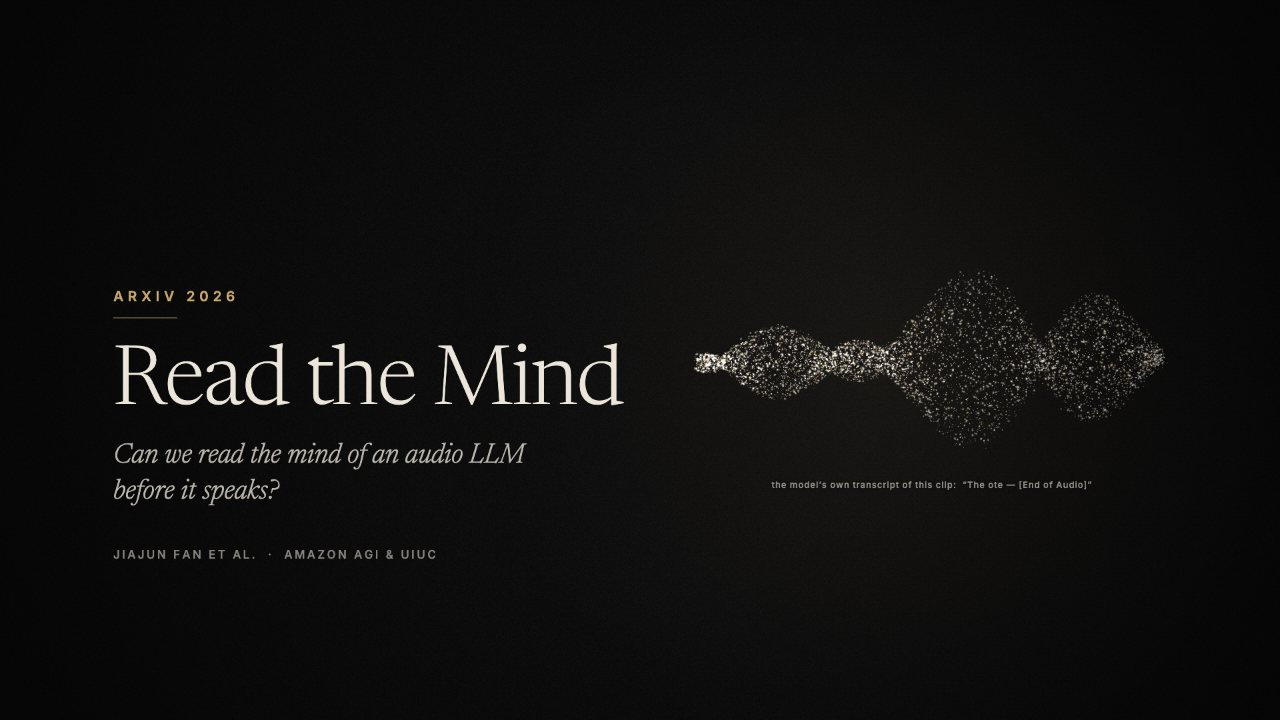
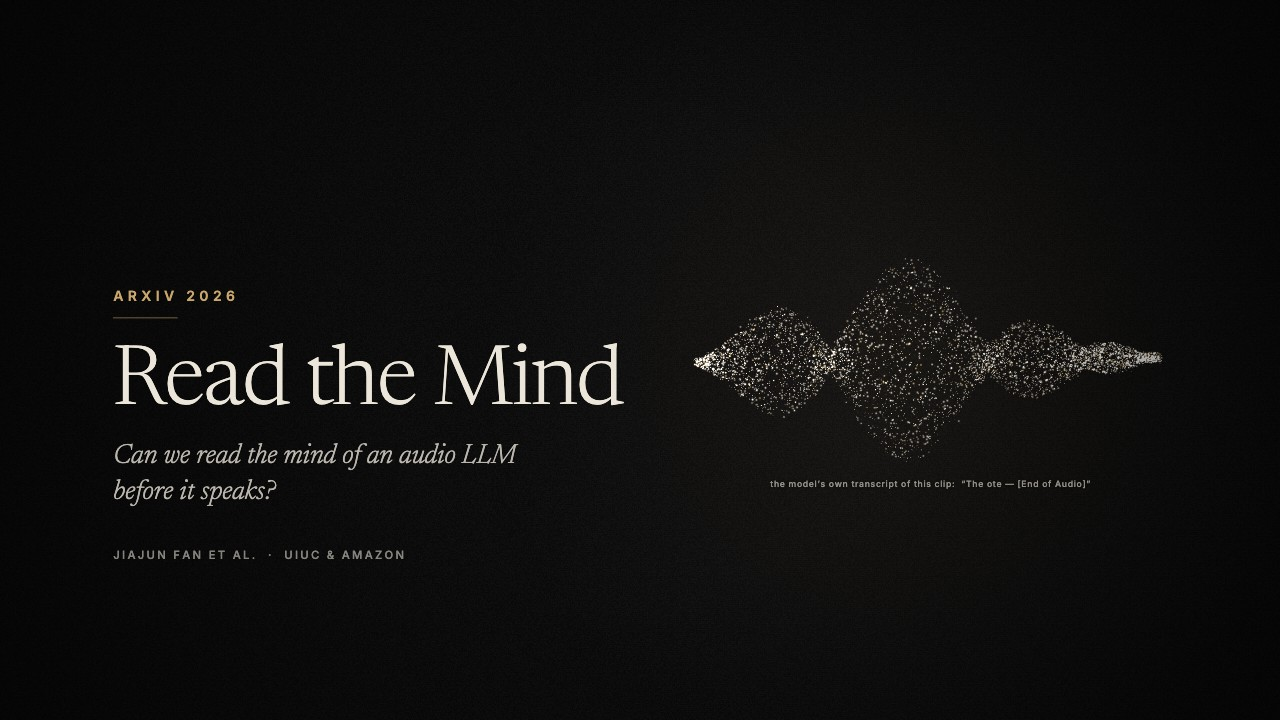
Films: credits match the pages; poster play button no longer covers the title
ORW-CFM-W2 now credits UIUC, CMU & USC, AC-Flow UIUC & CMU, and Read the Mind
UIUC & Amazon (UIUC first); their posters are re-rendered from the film at the
title frame. On every project page the poster's play button sits bottom-right.

diff --git a/film/scripts/orw-cfm-w2.js b/film/scripts/orw-cfm-w2.js
@@ -5,7 +5,7 @@ export default {
   id: 'orw-cfm-w2', name: 'ORW-CFM-W2', kicker: 'ORW-CFM-W2  ·  A PROJECT FILM', badge: ['ICLR 2025', 'flow matching'], page: '/projects/orw-cfm-w2/',
   chapters: timeline([
     { len: 7, shape: 'v:flow', viz: { from: 'noise', to: 'samples' }, label: 'ICLR 2025', title: 'ORW-CFM-W2',
-      lines: ['Online reward-weighted fine-tuning of flow', 'matching, with Wasserstein regularization.'], meta: 'FAN, SHEN, CHENG, CHEN, LIANG, LIU  ·  UIUC, ZJU, TSINGHUA & USC' },
+      lines: ['Online reward-weighted fine-tuning of flow', 'matching, with Wasserstein regularization.'], meta: 'FAN, SHEN, CHENG, CHEN, LIANG, LIU  ·  UIUC, CMU & USC' },
     { shape: 'v:alpha', viz: { panels: [{ label: 'reward-weighting alone', note: 'collapses onto one mode', mode: 'collapse' }] },
       tick: 'THE PROBLEM', label: 'THE PROBLEM', title: 'Hard to fine-tune',
       lines: ['No likelihood to regularize with, collapse under', 'reward pressure, and a need for human data.'] },

diff --git a/film/scripts/ac-flow.js b/film/scripts/ac-flow.js
@@ -3,7 +3,7 @@ export default {
   id: 'ac-flow', name: 'AC-Flow', kicker: 'AC-FLOW  ·  A PROJECT FILM', badge: ['ARXIV 2025', 'arXiv 2510.18072'], page: '/projects/ac-flow/',
   chapters: timeline([
     { len: 7, shape: 'v:denoise', viz: { mode: 'dense', note: '' }, label: 'ARXIV 2025', title: 'AC-Flow',
-      lines: ['Fine-tuning flow matching models', 'with intermediate feedback.'], meta: 'FAN, CHENG, SHEN, ZHOU, LIU  ·  UIUC, CMU & UCAS' },
+      lines: ['Fine-tuning flow matching models', 'with intermediate feedback.'], meta: 'FAN, CHENG, SHEN, ZHOU, LIU  ·  UIUC & CMU' },
     { shape: 'v:denoise', viz: { mode: 'outcome' }, tick: 'THE PROBLEM', label: 'THE PROBLEM', title: 'One reward, many steps',
       lines: ['Outcome rewards arrive only at the end of the', 'denoising chain: a credit-assignment problem.'] },
     { shape: 'v:denoise', viz: { mode: 'dense' }, tick: 'ACTOR-CRITIC', label: 'THE METHOD', title: 'An actor and a critic',

diff --git a/_includes/site-chrome.html b/_includes/site-chrome.html
@@ -7,6 +7,10 @@
 .masthead-nav a{font-size:17px!important;font-weight:600!important;padding:6px 10px!important;margin:0!important;letter-spacing:0!important}
 @media(max-width:600px){.masthead-title{font-size:17px!important}.masthead-nav a{font-size:14px!important;padding:5px 8px!important}}
 {% unless include.home %}
+/* Film posters: the play button sits bottom-right so it never covers the title printed on the poster. */
+a[href^="/film/"] .play{left:auto!important;top:auto!important;right:28px!important;bottom:24px!important;margin:0!important}
+@media(max-width:560px){a[href^="/film/"] .play{right:14px!important;bottom:12px!important}}
+
 /* Project pages: one venue label above the title, the same on every published paper. */
 .hero p.venue{font-size:14px;line-height:1.5;font-weight:600;color:var(--mint-t);margin:0 0 12px;font-variant-numeric:tabular-nums}
 

diff --git a/film/scripts/read-the-mind.js b/film/scripts/read-the-mind.js
@@ -8,7 +8,7 @@ export default {
   chapters: timeline([
     { len: 7, shape: 'v:waveform', viz: { caption: 'the model’s own transcript of this clip:  “The ote — [End of Audio]”' },
       label: 'ARXIV 2026', title: 'Read the Mind',
-      lines: ['Can we read the mind of an audio LLM', 'before it speaks?'], meta: 'JIAJUN FAN ET AL.  ·  AMAZON AGI & UIUC' },
+      lines: ['Can we read the mind of an audio LLM', 'before it speaks?'], meta: 'JIAJUN FAN ET AL.  ·  UIUC & AMAZON' },
     { shape: 'v:layers', viz: {}, tick: 'THE LENS', label: 'THE LENS', title: 'Read every layer',
       lines: ['A logit lens at the audio positions turns each', 'layer into words, before a token is emitted.'] },
     { len: 9, shape: 'v:layers', viz: { band: [0.35, 0.8], bandLabel: 'workspace band', tokens: [

diff --git a/projects/speechgym/index.html b/projects/speechgym/index.html
@@ -332,7 +332,7 @@ permalink: /projects/speechgym/
     </header>
     <a class="film sg-poster" href="/film/#speechgym" aria-label="Watch the SpeechGym film">
       <img src="/film/posters/speechgym.jpg" alt="Poster of the SpeechGym film: a caller and a voice agent joined by two strands of native speech" width="1280" height="720" loading="lazy" decoding="async">
-      <span class="sg-play" aria-hidden="true"><svg viewBox="0 0 24 24"><path d="M7 4.500v15l12.500-7.500z"/></svg></span>
+      <span class="sg-play play" aria-hidden="true"><svg viewBox="0 0 24 24"><path d="M7 4.500v15l12.500-7.500z"/></svg></span>
     </a>
     <p class="cap">Opens the film page.</p>
   </div>
